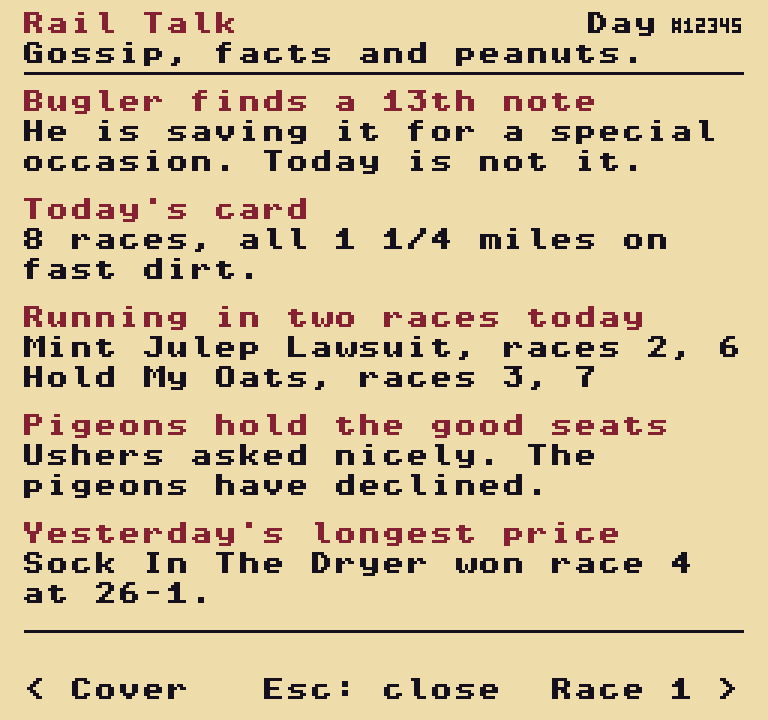
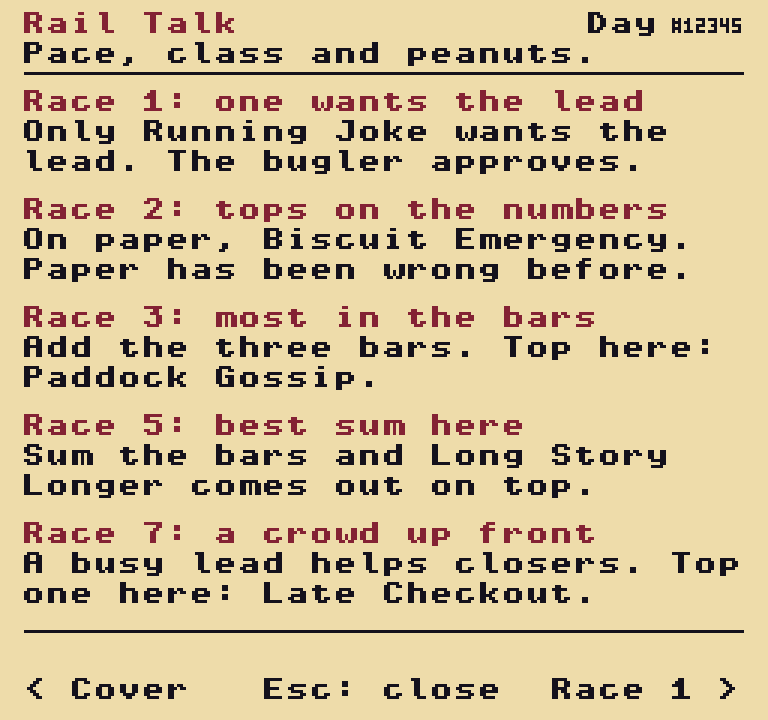
News wording: eleven more lines, the mock redrawn, names checked for banned words
Two reworded pairs and nine new ones from the designer, all fitting every
horse's name. The mock sheets show the new news and the up-front count,
so the pixel test compares every row again. A stable name with a banned
word fails at load. Three truth tests follow the new wording.

diff --git a/src/data/bookLoad.test.ts b/src/data/bookLoad.test.ts
@@ -95,6 +95,10 @@ describe('the shipped book.json', () => {
       'K1:nobody to argue with': ['Mint Julep Lawsuit is the lone', 'speed. Better than its bars.'],
       'K1:a lead for one': ['No rival for the lead. Mint', 'Julep Lawsuit likes that.'],
       'K2:a class above': ['No one here is close to Mint', 'Julep Lawsuit on paper.'],
+      'K2:add up the bars': ['Add up the bars. Well ahead:', 'Mint Julep Lawsuit.'],
+      'K2:a cut above': ['The regular added it twice:', 'Mint Julep Lawsuit, by plenty.'],
+      'K2:class of the race': ['Mint Julep Lawsuit is the', 'class here. Ask anyone.'],
+      'K2:nobody near on paper': ['Even the pigeons see it: Mint', 'Julep Lawsuit, clear.'],
       'K2:best by a lot': ['Mint Julep Lawsuit has the', 'most in the bars, by a lot.'],
       'K3:{k} want the lead': ['Closers like a busy front.', 'Mint Julep Lawsuit tops them.'],
       'K3:a crowd up front': ['A busy lead helps closers. Top', 'one here: Mint Julep Lawsuit.'],
@@ -102,13 +106,20 @@ describe('the shipped book.json', () => {
       'K4:an easier crowd': ['Mint Julep Lawsuit runs twice.', 'Race 6 is the easier field.'],
       'K4:softer company': ['Two starts for Mint Julep', 'Lawsuit. Race 6 is kinder.'],
       'K4:kinder rivals': ['Race 6 is the easier of Mint', "Julep Lawsuit's two."],
+      'K4:the kinder of two': ['Mint Julep Lawsuit: two races.', "This one's softer."],
+      'K4:a gentler bunch': ['Mint Julep Lawsuit runs two.', 'Fewer bigwigs here.'],
+      'K4:lighter company': ['Mint Julep Lawsuit has the', 'lighter field of two.'],
       'K5:nobody wants the lead': ['Stalkers set the pace, and', 'Mint Julep Lawsuit tops them.'],
       'K5:no speed at all': ['No early speed suits stalkers.', 'Top one: Mint Julep Lawsuit.'],
       'K5:who goes first?': ['Someone has to go first. Top', 'stalker: Mint Julep Lawsuit.'],
       'K6:drawn wide': ['Post 8 for Mint Julep Lawsuit.', 'A long way round for speed.'],
       'K6:a long way round': ['Mint Julep Lawsuit drew wide,', 'post 8. Speed minds it a bit.'],
       'K6:parked out wide': ['Mint Julep Lawsuit starts from', 'post 8. A long trip for speed.'],
+      'K6:outside looking in': ['Mint Julep Lawsuit, post 8: a', 'bit of extra ground.'],
+      'K6:far from the rail': ['Mint Julep Lawsuit is in post', '8. Costs a little.'],
+      'K6:the outside seats': ['Mint Julep Lawsuit: post 8,', 'small cost, nice view.'],
       'K7:tops on the numbers': ['On paper, Mint Julep Lawsuit.', 'Paper has been wrong before.'],
+      'K7:most in the bars': ['Add the three bars. Top here:', 'Mint Julep Lawsuit.'],
       'K7:best sum here': ['Sum the bars and Mint Julep', 'Lawsuit comes out on top.'],
     };
     let seen = 0;
@@ -124,9 +135,25 @@ describe('the shipped book.json', () => {
     expect(seen).toBe(Object.keys(spec).length);
   });
 
-  it('every stable name fits every shipped pair in 2 lines of 30 (the two spec pairs that need a third line for some names are left out)', () => {
-    const left = ['add up the bars', 'most in the bars'];
-    for (const k of Object.values(loadBook().news.kinds.value)) for (const p of k.pairs) expect(left).not.toContain(p.headline);
+  it('ships three to six pairs a kind: the reworded K2 and K7 pairs and pairs 4 to 6 of K2, K4 and K6 wide are in', () => {
+    const k = loadBook().news.kinds.value;
+    expect(Object.fromEntries(Object.entries(k).map(([n, v]) => [n, v.pairs.length]))).toEqual({ K1: 3, K2: 6, K3: 3, K4: 6, K5: 3, K6: 6, K7: 3 });
+    expect(k.K2.pairs.map((p) => p.headline)).toContain('add up the bars');
+    expect(k.K7.pairs.map((p) => p.headline)).toContain('most in the bars');
+  });
+
+  it('every stable name fits every shipped pair in 2 lines of 30, at either end of the posts (the loader\'s own judge)', () => {
+    const names = stableJson.horses.map((h) => h.name);
+    for (const [kind, k] of Object.entries(loadBook().news.kinds.value)) {
+      for (const p of k.pairs) {
+        for (const name of names) for (const post of [1, 8]) {
+          const body = p.body.replace('{name}', name).replace('{post}', String(post)).replace('{soft}', '8');
+          const lines = wrapWords(body, 30);
+          expect(lines.length, `${kind}:${p.headline} with ${name}`).toBeLessThanOrEqual(2);
+          for (const l of lines) expect(l.length).toBeLessThanOrEqual(30);
+        }
+      }
+    }
   });
 });
 
@@ -147,9 +174,11 @@ describe('NU4: pairs checked at load, with the key', () => {
     expect(e.issues[0].message).toMatch(/needs more than 2 lines of 30/);
   });
 
-  it('the two spec pairs left out do fail the check (so the spec\'s own rule keeps them out)', () => {
-    expect(paths(failure((b) => { b.news.kinds.value.K2.pairs.push({ headline: 'add up the bars', body: 'Add up the bars. {name} comes out well ahead.' }); }))).toContain(pairAt('K2', 2) + '.body');
-    expect(paths(failure((b) => { b.news.kinds.value.K7.pairs.push({ headline: 'most in the bars', body: 'Add the three bars: {name} is top here.' }); }))).toContain(pairAt('K7', 2) + '.body');
+  it('the two bodies the designer replaced still fail the check (so they stay out)', () => {
+    const n2 = bookJson.news.kinds.value.K2.pairs.length;
+    const n7 = bookJson.news.kinds.value.K7.pairs.length;
+    expect(paths(failure((b) => { b.news.kinds.value.K2.pairs.push({ headline: 'add up it', body: 'Add up the bars. {name} comes out well ahead.' }); }))).toContain(pairAt('K2', n2) + '.body');
+    expect(paths(failure((b) => { b.news.kinds.value.K7.pairs.push({ headline: 'most bars', body: 'Add the three bars: {name} is top here.' }); }))).toContain(pairAt('K7', n7) + '.body');
   });
 
   it('an unknown hole fails, and so does a hole a kind does not have', () => {
@@ -245,6 +274,33 @@ describe('NU4: banned words, whole words, case-insensitive', () => {
     expect(bannedWordIn('Pickle', ['pick'])).toBeNull();
     expect(bannedWordIn('Pick, six', ['pick'])).toBe('pick');
     expect(holesOf('{race1Name} {a}')).toEqual(['race1Name', 'a']);
+  });
+});
+
+describe('stable names are held to the banned words of the book', () => {
+  const withNames = (names: string[]): DataError | null => {
+    try { validateBook({ ...base(structuredClone(bookJson)), horseNames: names }); } catch (e) { if (e instanceof DataError) return e; throw e; }
+    return null;
+  };
+  const names = stableJson.horses.map((h) => h.name);
+
+  it('no current stable name hits the news ban list', () => {
+    expect(withNames(names)).toBeNull();
+  });
+
+  it('a name with a banned word, as a whole word in any case, fails against src/data/stable.json naming the horse', () => {
+    for (const [name, word] of [['Fresh Paint', 'fresh'], ['Sure Thing Sally', 'sure thing'], ['Cash Out Carl', 'cash out'], ['Hot TIP', 'tip']]) {
+      const e = withNames([...names.slice(0, 3), name])!;
+      expect(e, name).not.toBeNull();
+      expect(e.file).toBe('src/data/stable.json');
+      expect(e.issues.map((i) => i.path)).toEqual(['horses[3].name']);
+      expect(e.message).toContain(`"${name}"`);
+      expect(e.message).toContain(`"${word}"`);
+    }
+  });
+
+  it('a banned word inside a longer word is not a hit', () => {
+    expect(withNames([...names, 'Pickle Tipsy', 'Freshwater'])).toBeNull();
   });
 });
 

diff --git a/src/render/bookWindowComposite.test.ts b/src/render/bookWindowComposite.test.ts
@@ -39,15 +39,17 @@ const R5 = fieldOf(5, ['Ten Items Or Less', 'Burgoo Weather', 'Smoke Alarm Chirp
 const R2 = fieldOf(2, ['Biscuit Emergency', 'Mint Julep Lawsuit', 'Porch Light On', 'Understudy', 'Decaf By Mistake', 'Take A Number', 'Polite Applause', 'Mayor Of Turn Two']);
 const R2_ODDS = ['6-1', '5-2', '2-1', '9-1', '7-2', '15-1', '11-1', '4-1'];
 
-// The mock's sample items are the old news (docs/specs/book-and-window.md section 4). The page draws whatever NewsItems it is
-// handed, so they are handed in as they are; kind, race and horse are placeholders the drawing never reads, `lead` marks the cover line.
-const item = (slot: number, headline: string, body: string[]): NewsItem => ({ slot, id: `mock:${slot}`, kind: 'K7', race: slot, horseId: '', post: 1, lead: slot === 1, headline, body });
+// The mock's sample news (scripts/art/book_mock.mjs NEWS, LEAD, COVER_LINE; the values are written here, not imported:
+// that script regenerates the PNGs when loaded). The page draws whatever NewsItems it is handed, so they are handed in as
+// the mock has them; kind, horse and post are placeholders the drawing never reads. `lead` is the first taken (Race 1).
+const item = (race: number, kind: NewsItem['kind'], headline: string, body: string[], slot: number): NewsItem =>
+  ({ slot, id: `mock:${race}`, kind, race, horseId: '', post: 1, lead: race === 1, headline, body });
 const MOCK_NEWS: NewsItem[] = [
-  item(1, 'Bugler finds a 13th note', ['He is saving it for a special', 'occasion. Today is not it.']),
-  item(2, "Today's card", ['8 races, all 1 1/4 miles on', 'fast dirt.']),
-  item(3, 'Running in two races today', ['Mint Julep Lawsuit, races 2, 6', 'Hold My Oats, races 3, 7']),
-  item(4, 'Pigeons hold the good seats', ['Ushers asked nicely. The', 'pigeons have declined.']),
-  item(5, "Yesterday's longest price", ['Sock In The Dryer won race 4', 'at 26-1.']),
+  item(1, 'K1', 'Race 1: one wants the lead', ['Only Running Joke wants the', 'lead. The bugler approves.'], 1),
+  item(2, 'K7', 'Race 2: tops on the numbers', ['On paper, Biscuit Emergency.', 'Paper has been wrong before.'], 2),
+  item(3, 'K7', 'Race 3: most in the bars', ['Add the three bars. Top here:', 'Paddock Gossip.'], 3),
+  item(5, 'K7', 'Race 5: best sum here', ['Sum the bars and Long Story', 'Longer comes out on top.'], 4),
+  item(7, 'K3', 'Race 7: a crowd up front', ['A busy lead helps closers. Top', 'one here: Late Checkout.'], 5),
 ];
 const cover = coverFor(book, { daySeed: 12345, trackName: ctx.races[0].track, raceCount: 8, news: MOCK_NEWS });
 
@@ -67,16 +69,6 @@ function paintBook(s: BookScreen): Frame {
   return f;
 }
 
-/**
- * The mock (docs/mocks/book-and-window/) was drawn before book-useful.md, so two rows of it are the old words:
- * the news page's subtitle row ("Gossip, facts and peanuts.", now "Pace, class and peanuts.", spec section 2, y14-21)
- * and a race page's header line 4 ("playing fair", now the pace phrase, spec section 6, y34-41). Those rows are left
- * out of the comparison until the artist redraws the sheets; every other pixel must still match.
- */
-const STALE_ROWS = { news: [14, 21], race: [34, 41] } as const;
-const diffsOutside = (diffs: string[], rows: readonly [number, number]): string[] =>
-  diffs.filter((d) => { const y = Number(d.split(':')[0].split(',')[1]); return y < rows[0] || y > rows[1]; });
-
 const pageState = (race: number, over: Partial<RacePageState>): RacePageState =>
   ({ race, kind: 'posted', odds: [], right: '', footer: 'blurb', enter: 'none', tick: null, ...over });
 const racePage = (drawn: DrawnRace, page: RacePageState) => racePageScreen({ book, ctx, rd, look: lookFor(drawn), drawn, page, focus: 0 });
@@ -88,6 +80,14 @@ describe('the book matches the approved mock pixel for pixel', () => {
     expect(diffs.length, diffs.slice(0, 10).join('\n')).toBe(0);
   });
 
+  it('the cover line is the lead item\'s headline, and header line 4 comes out of the code from the mock\'s own fields', () => {
+    expect(cover.line).toBe('Race 1: one wants the lead');
+    const l4 = (drawn: DrawnRace, page: RacePageState) => racePage(drawn, page).texts.find((t) => t.y === 34)!.text;
+    expect(l4(R3, pageState(3, {}))).toBe('Dirt, fast, 2 up front');
+    expect(l4(R5, pageState(5, {}))).toBe('Dirt, fast, 3 up front');
+    expect(l4(R2, pageState(2, {}))).toBe('Dirt, fast, 3 up front');
+  });
+
   it('CV3: the cover uses only Parchment, Ink and Maroon', () => {
     const f = paintBook(coverScreen(book, cover, 8));
     expect([...f.colorsIn(0, 0, 255, 239)].sort()).toEqual(['Ink', 'Maroon', 'Parchment']);
@@ -95,25 +95,25 @@ describe('the book matches the approved mock pixel for pixel', () => {
 
   it('3-news: the five items, the day pair right-aligned, the foot', () => {
     const f = paintBook(newsScreen(book, MOCK_NEWS, cover.dayLabel, cover.dayNumber, 8));
-    const diffs = diffsOutside(f.diff(MOCK('3-news.png')), STALE_ROWS.news);
+    const diffs = f.diff(MOCK('3-news.png'));
     expect(diffs.length, diffs.slice(0, 10).join('\n')).toBe(0);
   });
 
   it('4a: race 3 with prices posted, the cursor on #1 and its blurb, "Enter: to window"', () => {
     const f = paintBook(racePage(R3, pageState(3, { odds: R3_ODDS, right: 'Enter: to window', enter: 'window' })));
-    const diffs = diffsOutside(f.diff(MOCK('4a-race3-prices-posted.png')), STALE_ROWS.race);
+    const diffs = f.diff(MOCK('4a-race3-prices-posted.png'));
     expect(diffs.length, diffs.slice(0, 10).join('\n')).toBe(0);
   });
 
   it('4b: race 5, "Prices later" and every odds cell "-"', () => {
     const f = paintBook(racePage(R5, pageState(5, { kind: 'later', odds: R5.horseIds.map(() => null), right: 'Prices later' })));
-    const diffs = diffsOutside(f.diff(MOCK('4b-race5-prices-later.png')), STALE_ROWS.race);
+    const diffs = f.diff(MOCK('4b-race5-prices-later.png'));
     expect(diffs.length, diffs.slice(0, 10).join('\n')).toBe(0);
   });
 
   it('4c: race 2 run, "Winner: #5" and the pencil tick on your #3', () => {
     const f = paintBook(racePage(R2, pageState(2, { kind: 'run', odds: R2_ODDS, right: 'Winner: #5', tick: 3 })));
-    const diffs = diffsOutside(f.diff(MOCK('4c-race2-run.png')), STALE_ROWS.race);
+    const diffs = f.diff(MOCK('4c-race2-run.png'));
     expect(diffs.length, diffs.slice(0, 10).join('\n')).toBe(0);
   });
 });

diff --git a/src/bet/newsTruthSpec.test.ts b/src/bet/newsTruthSpec.test.ts
@@ -240,7 +240,8 @@ describe('K4 easier crowd: a horse runs twice, the rivals\' means differ by 6 or
     expect(items).toHaveLength(1);
     expect(items[0].race).toBe(2);
     expect(items[0].headline.startsWith('Race 2: ')).toBe(true);
-    expect(items[0].body.join(' ')).toMatch(/Race 2\b/);
+    // the headline prints the softer race; a body may repeat it ("Race 2 is kinder") or say "here", but never names the other race
+    expect([...items[0].body.join(' ').matchAll(/Race (\d+)/g)].map((m) => Number(m[1])).filter((n) => n !== 2)).toEqual([]);
     expect(items[0].body.join(' ')).not.toMatch(/Race 1\b/);
   });
 
@@ -541,7 +542,9 @@ describe('real days: the claim of every printed item is true, recomputed from th
           const soft = means[0].mean < means[1].mean ? means[0] : means[1];
           expect(it.race, tag).toBe(soft.race);
           expect(soft.rank, tag).toBeLessThanOrEqual(3);
-          expect(it.body.join(' '), tag).toMatch(new RegExp(`Race ${soft.race}\\b`));
+          // the headline prints the softer race; a body that names a race names that one, and "here" means it
+          expect(it.headline.startsWith(`Race ${soft.race}: `), tag).toBe(true);
+          expect([...it.body.join(' ').matchAll(/Race (\d+)/g)].map((m) => Number(m[1])).filter((n) => n !== soft.race), tag).toEqual([]);
         } else if (it.kind === 'K5') {
           expect(fronts, tag).toBe(0);
           expect(named.style, tag).toBe('stalker');
@@ -813,12 +816,14 @@ describe('NU4 to NU6: every shipped pair, filled with every stable name, race, p
     for (const p of kinds.K3.pairs) expect(`${p.headline} ${p.body}`).not.toMatch(/tire|fade|slow|duel|burn/i);
   });
 
-  it('the two pairs the engineer left out really do need a third line for some names (K2 "add up the bars", K7 "most in the bars")', () => {
+  it('the old bodies of the two reworded pairs really need a third line for some names, are no longer shipped, and every shipped K2 and K7 body fits every name', () => {
     const over = (t: string) => names.filter((nm) => wrap(fill(t, { name: nm })).length > 2);
-    expect(over('Add up the bars. {name} comes out well ahead.').sort()).toEqual(['Biscuit Emergency', 'Medium Everything']);
-    expect(over('Add the three bars: {name} is top here.')).toEqual(['Unsolicited Advice']);
-    // and the shipped pairs of those two kinds are the ones that fit
-    expect(kinds.K2.pairs.map((p) => p.headline)).not.toContain('add up the bars');
-    expect(kinds.K7.pairs.map((p) => p.headline)).not.toContain('most in the bars');
+    const OLD_K2 = 'Add up the bars. {name} comes out well ahead.';
+    const OLD_K7 = 'Add the three bars: {name} is top here.';
+    expect(over(OLD_K2).sort()).toEqual(['Biscuit Emergency', 'Medium Everything']);
+    expect(over(OLD_K7)).toEqual(['Unsolicited Advice']);
+    expect(kinds.K2.pairs.map((p) => p.body)).not.toContain(OLD_K2);
+    expect(kinds.K7.pairs.map((p) => p.body)).not.toContain(OLD_K7);
+    for (const k of ['K2', 'K7']) for (const p of kinds[k].pairs) expect(over(p.body), `${k}: ${p.body}`).toEqual([]);
   });
 });

diff --git a/src/data/bookLoad.ts b/src/data/bookLoad.ts
@@ -84,6 +84,14 @@ export function validateBook(raw: BookInput): Book {
   checkFoot(b, raceNumbers, line, add);
   if (issues.length > 0) throw new DataError(FILE, issues);
 
+  // A horse's name is the stable's, but the news prints it: no stable name may hold a word the book bans.
+  const dirty: DataIssue[] = [];
+  raw.horseNames.forEach((name, i) => {
+    const word = bannedWordIn(name, banned);
+    if (word !== null) dirty.push({ path: `horses[${i}].name`, message: `"${name}" contains the banned word "${word}", and the news prints names` });
+  });
+  if (dirty.length > 0) throw new DataError('src/data/stable.json', dirty);
+
   // CV1, amended in 18.1 item 3 and 18.2: race 1's track name in the display font.
   const track = raw.races[0]?.track;
   if (track !== undefined) {
